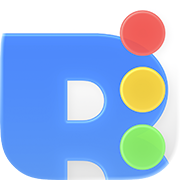
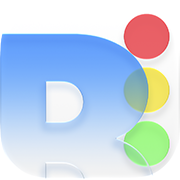
Add files via upload

diff --git a/index.html b/index.html
@@ -3,9 +3,9 @@
 <head>
   <meta charset="UTF-8"/>
   <meta name="viewport" content="width=device-width, initial-scale=1.0"/>
-  <title>Ingestas — Cines Babel · v1.15.3</title>
-  <link rel="icon" href="icon.png"/>
-  <link rel="apple-touch-icon" href="icon.png"/>
+  <title>Ingestas — Cines Babel · v1.16</title>
+  <link rel="icon" href="icon.png?v=2"/>
+  <link rel="apple-touch-icon" href="icon.png?v=2"/>
   <meta name="apple-mobile-web-app-capable" content="yes"/>
   <meta name="apple-mobile-web-app-status-bar-style" content="black"/>
   <meta name="apple-mobile-web-app-title" content="Ingestas"/>
@@ -1021,7 +1021,7 @@
       <!-- CRÉDITOS -->
       <div class="help-credits">
         <strong>Lista de Ingestas — Cines Babel</strong><br>
-        Versión actual: <strong>v1.15.3</strong><br>
+        Versión actual: <strong>v1.16</strong><br>
         Diseño y desarrollo por <strong>Pablo Goitia</strong>
       </div>
 
@@ -1067,7 +1067,7 @@
 <div class="toast" id="toast"></div>
 <div class="popover" id="popover"></div>
 
-<footer>v1.15.3 · Diseño por Pablo Goitia</footer>
+<footer>v1.16 · Diseño por Pablo Goitia</footer>
 
 <script>
 // ═══════════════════════════════════════════════════════════════════════════
